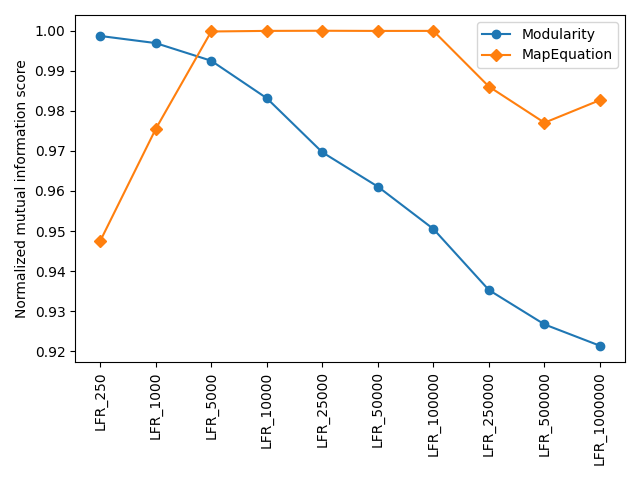
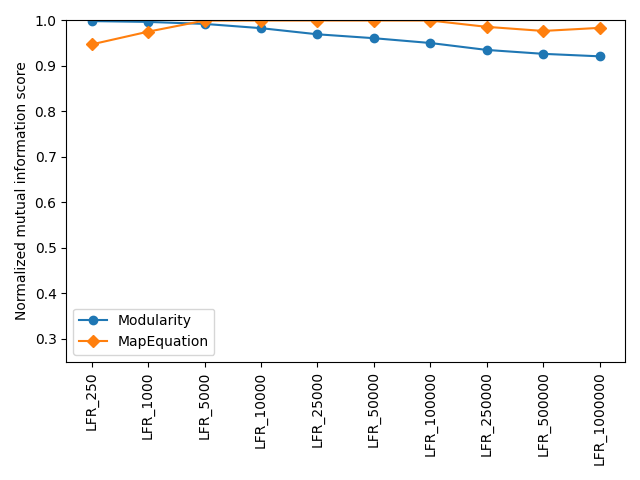
Updated plotting

diff --git a/Plotting.py b/Plotting.py
@@ -66,9 +66,11 @@ def plot_found_communities_bar(header, data, name):
     rects3 = ax.bar(x + width, info_communities, width, label='MapEquation')
 
     # Add some text for labels, title and custom x-axis tick labels, etc.
-    ax.set_ylabel('Amount of communities')
+    ax.set_ylabel('Amount of communities (log scale)')
     ax.set_xticks(x, labels, rotation = "vertical")
     ax.legend()
+
+    plt.yscale("log")
 
     # Bar labels overlap unfortunately
     # ax.bar_label(rects1, padding=3)
@@ -138,6 +140,8 @@ def plot_scores_line(header, data, name):
     ax.set_ylabel('Normalized mutual information score')
     ax.set_xticks(x, labels, rotation = "vertical")
     ax.legend()
+
+    plt.ylim(0.25, 1)
 
     fig.tight_layout()
 

diff --git a/LFR_gen.py b/LFR_gen.py
@@ -6,7 +6,7 @@ from Parameters import *
 import Display_graph
 import Run_test
 
-SEED = -2 # Root seed used for RNG. Modify if running multiple times with the same set of parameters.
+SEED = 2 # Root seed used for RNG. Modify if running multiple times with the same set of parameters.
 MAXTRIES = 10 # Maximum tries to generate a graph
 RECREATE_FILES = False # Whether or not to overwrite existing networks with the exact same parameters
 RUN_TESTS = False # Set to True to automatically run 'Run_test.py' after the graph is generated
